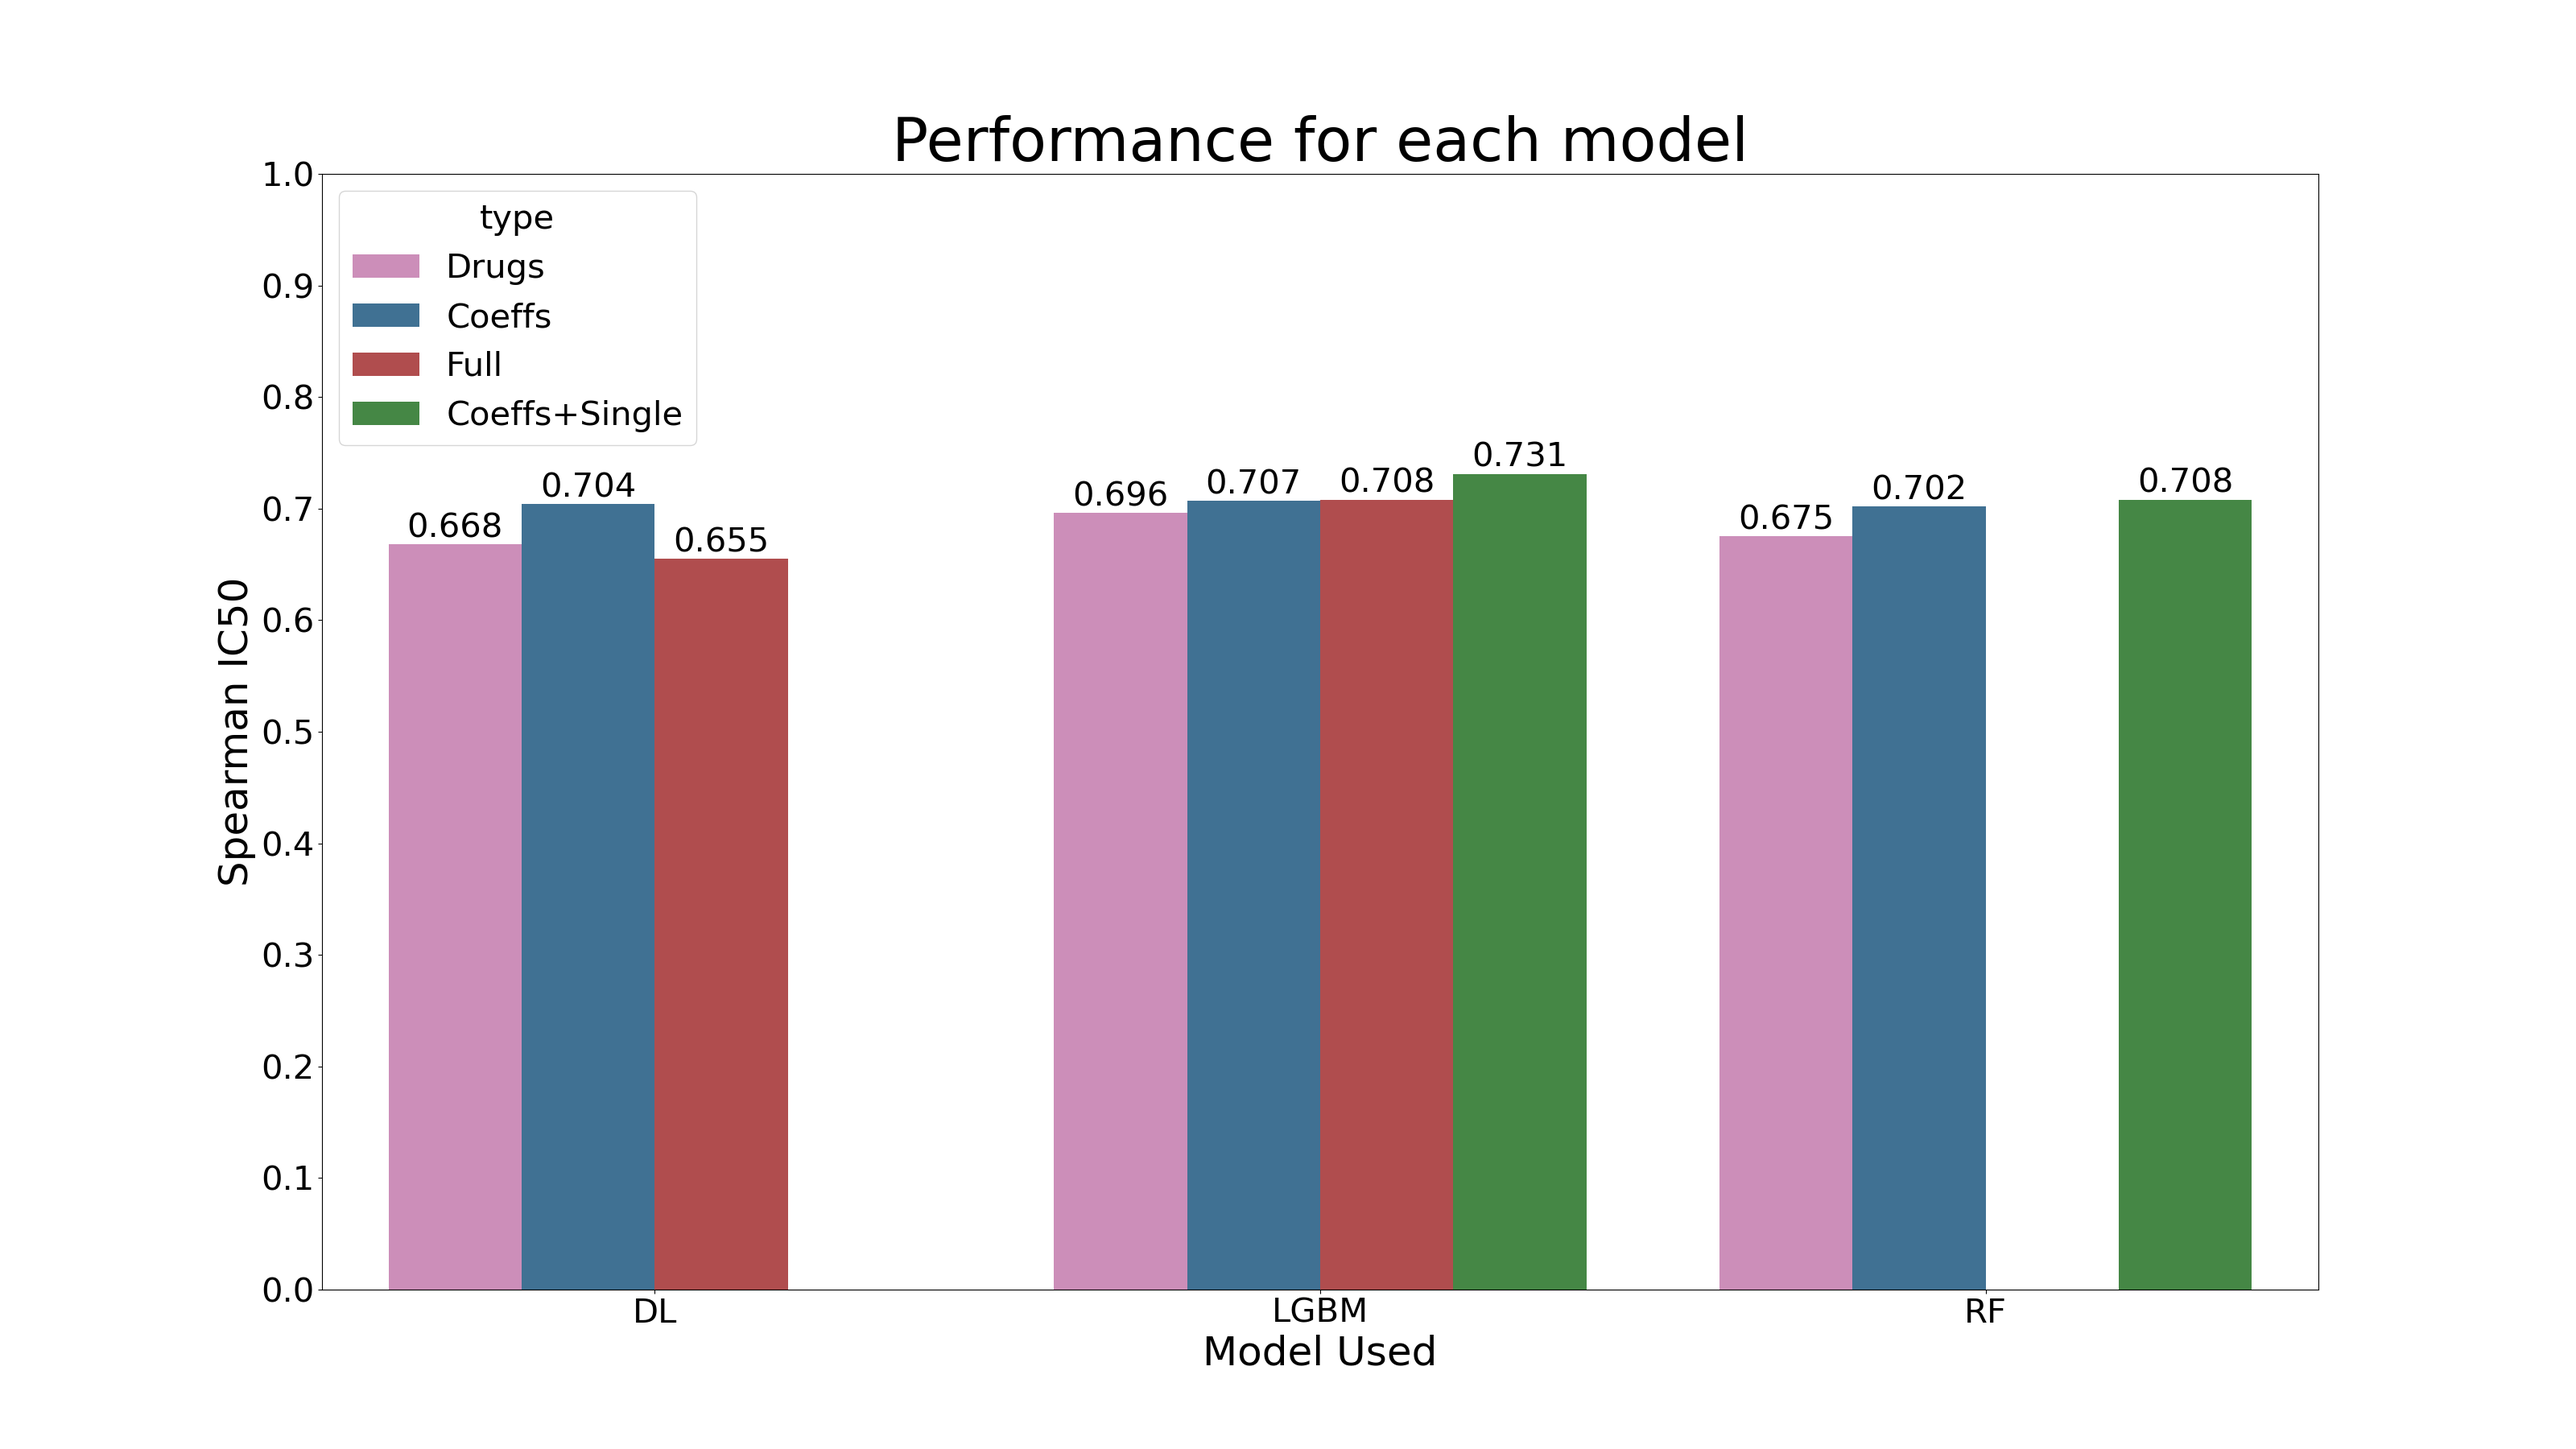
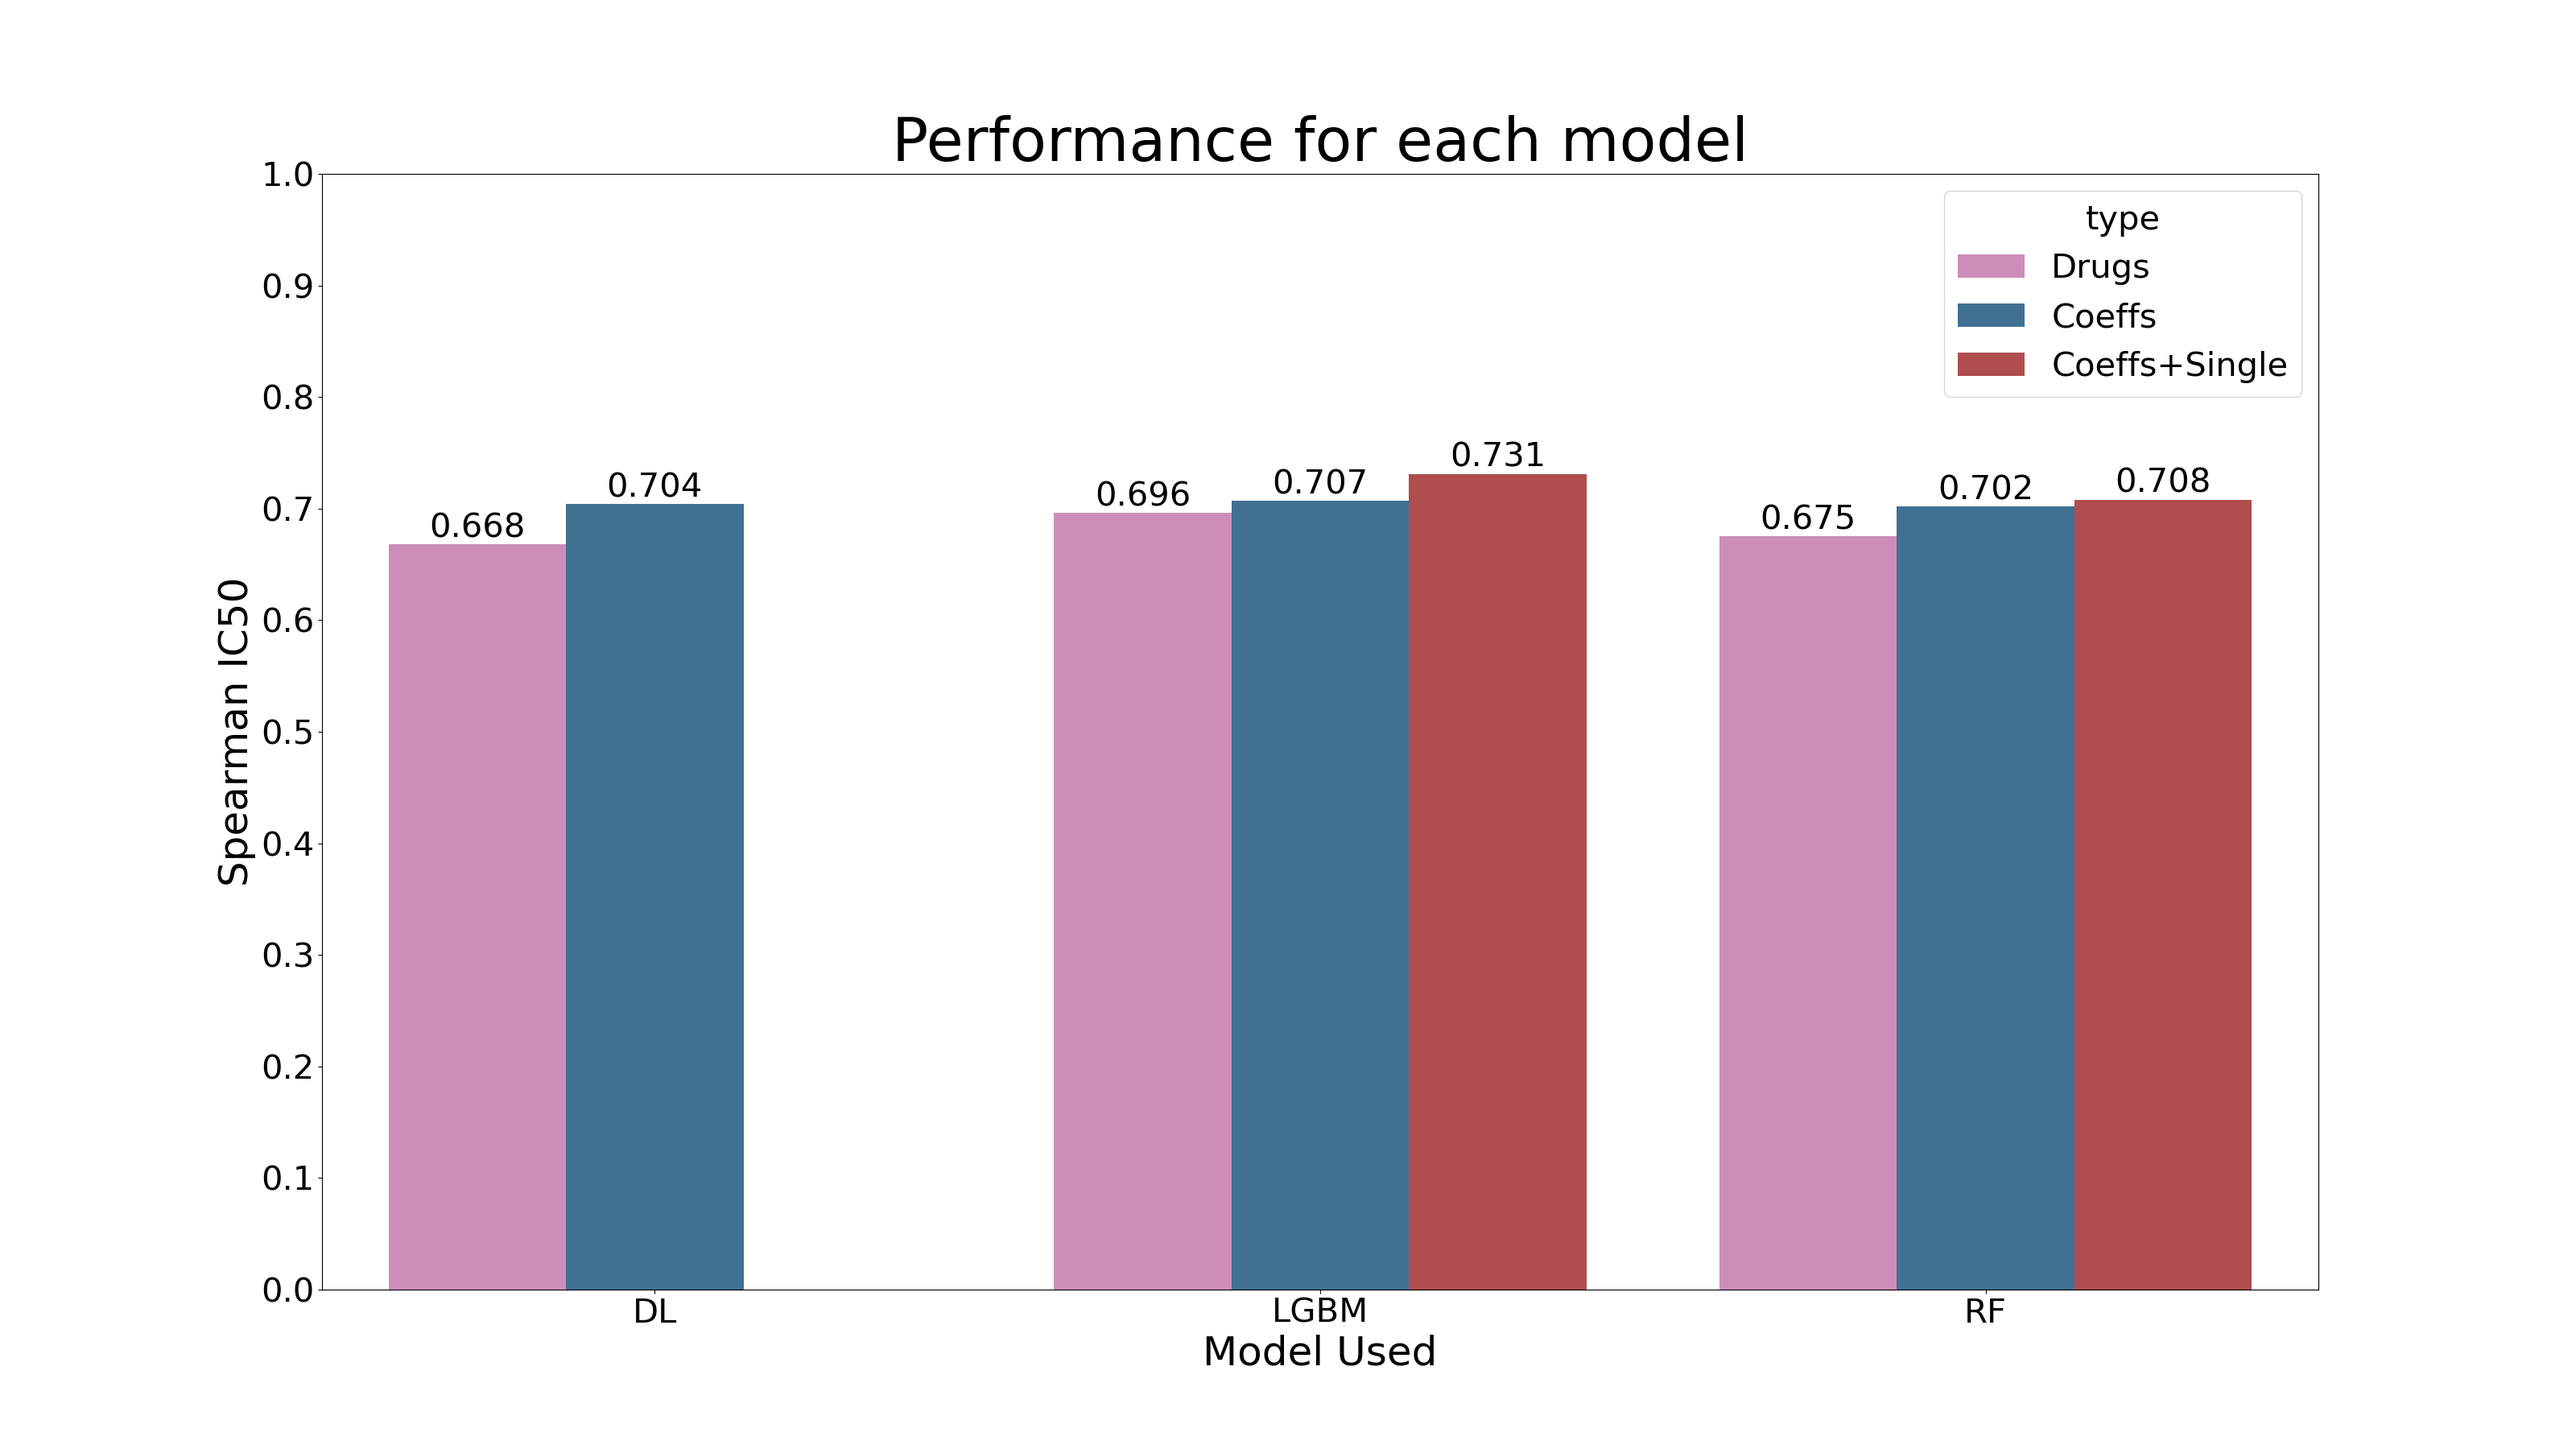
aaaaaa

diff --git a/fullPackage/makeGraphs.py b/fullPackage/makeGraphs.py
@@ -29,13 +29,24 @@ runStackedGraphs = False #whether to generate stacked graphs
 
 
 #Misc Results
-predictionPaths = [Path(__file__).parent / 'predictions' / 'final' / 'DL' / 'dlrun1.csv', Path(__file__).parent / 'predictions' /'final'/'lgbm'/ 'lgbmrun99Regular.csv', Path(__file__).parent / 'predictions' / 'temp' / 'dlNew1JustCoeffs.csv',  Path(__file__).parent / 'predictions' / 'final' / 'dlFull' /'dlFullrun98.csv', Path(__file__).parent / 'predictions' /'final'/'lgbm'/ 'lgbmrun99regularplusCoeffs.csv', Path(__file__).parent / 'predictions' /'final'/'lgbm'/ 'lgbmrun99regularplusCoeffsplusDrugs.csv', Path(__file__).parent / 'predictions' /'final'/'lgbm'/ 'lgbmrun100regularplusSingleplusCoeffs.csv', Path(__file__).parent / 'predictions' /'final'/'rf'/ 'rfrun11.csv', Path(__file__).parent / 'predictions' /'final'/'rf'/ 'rfrun100regularplusSingleplusCoeffs.csv', Path(__file__).parent / 'predictions' /'temp' /'rf0CoeffsNoSingle.csv', Path(__file__).parent / 'predictions' /'temp' /'lgbm0Proteomics.csv']
-predictionNames = ['DL', 'LGBM','DL Coeffs', 'DL Full', 'LGBM Coeffs', 'LGBM Full', 'LGBM Coeffs+Single', 'RF', 'RF Coeffs+Single', 'RF Coeffs', 'LGBM Coeffs+Single Proteomics']
-mainModel = ['DL', 'LGBM', 'DL', 'DL', 'LGBM', 'LGBM', 'LGBM', 'RF', 'RF', 'RF', 'LGBM']
-type = ['Drugs', 'Drugs', 'Coeffs', 'Full', 'Coeffs', 'Full', 'Coeffs+Single', 'Drugs', 'Coeffs+Single', 'Coeffs', 'Full+Proteomics']
+predictionPaths = [Path(__file__).parent / 'predictions' / 'final' / 'DL' / 'dlrun1.csv', Path(__file__).parent / 'predictions' /'final'/'lgbm'/ 'lgbmrun99Regular.csv', Path(__file__).parent / 'predictions' / 'temp' / 'dlNew1JustCoeffs.csv',  Path(__file__).parent / 'predictions' /'final'/'lgbm'/ 'lgbmrun99regularplusCoeffs.csv', Path(__file__).parent / 'predictions' /'final'/'lgbm'/ 'lgbmrun100regularplusSingleplusCoeffs.csv', Path(__file__).parent / 'predictions' /'final'/'rf'/ 'rfrun11.csv', Path(__file__).parent / 'predictions' /'final'/'rf'/ 'rfrun100regularplusSingleplusCoeffs.csv', Path(__file__).parent / 'predictions' /'temp' /'rf0CoeffsNoSingle.csv']
+predictionNames = ['DL', 'LGBM','DL Coeffs', 'LGBM Coeffs', 'LGBM Coeffs+Single', 'RF', 'RF Coeffs+Single', 'RF Coeffs']
+mainModel = ['DL', 'LGBM', 'DL', 'LGBM', 'LGBM', 'RF', 'RF', 'RF']
+type = ['Drugs', 'Drugs', 'Coeffs', 'Coeffs', 'Coeffs+Single', 'Drugs', 'Coeffs+Single', 'Coeffs']
 saveGraphsFolder =  Path(__file__).parent / 'graphs' / 'misc'
 modelStatsFolder =  Path(__file__).parent / 'results' / 'misc'
 groupedBars = True
+
+
+
+#Omics Type
+#predictionPaths = [Path(__file__).parent / 'predictions' /'final'/'lgbm'/ 'lgbmrun100regularplusSingleplusCoeffs.csv',  Path(__file__).parent / 'predictions' /'temp' /'lgbm0Proteomics.csv']
+#predictionNames = ['LGBM Coeffs+Single CRISPR', 'LGBM Coeffs+Single Proteomics']
+#mainModel = ['LGBM', 'LGBM']
+#type = ['CRISPR-KO', 'Proteomics']
+#saveGraphsFolder =  Path(__file__).parent / 'graphs' / 'omicstype'
+#modelStatsFolder =  Path(__file__).parent / 'results' / 'omicstype'
+#groupedBars = True
 
 
 #Drug CV
